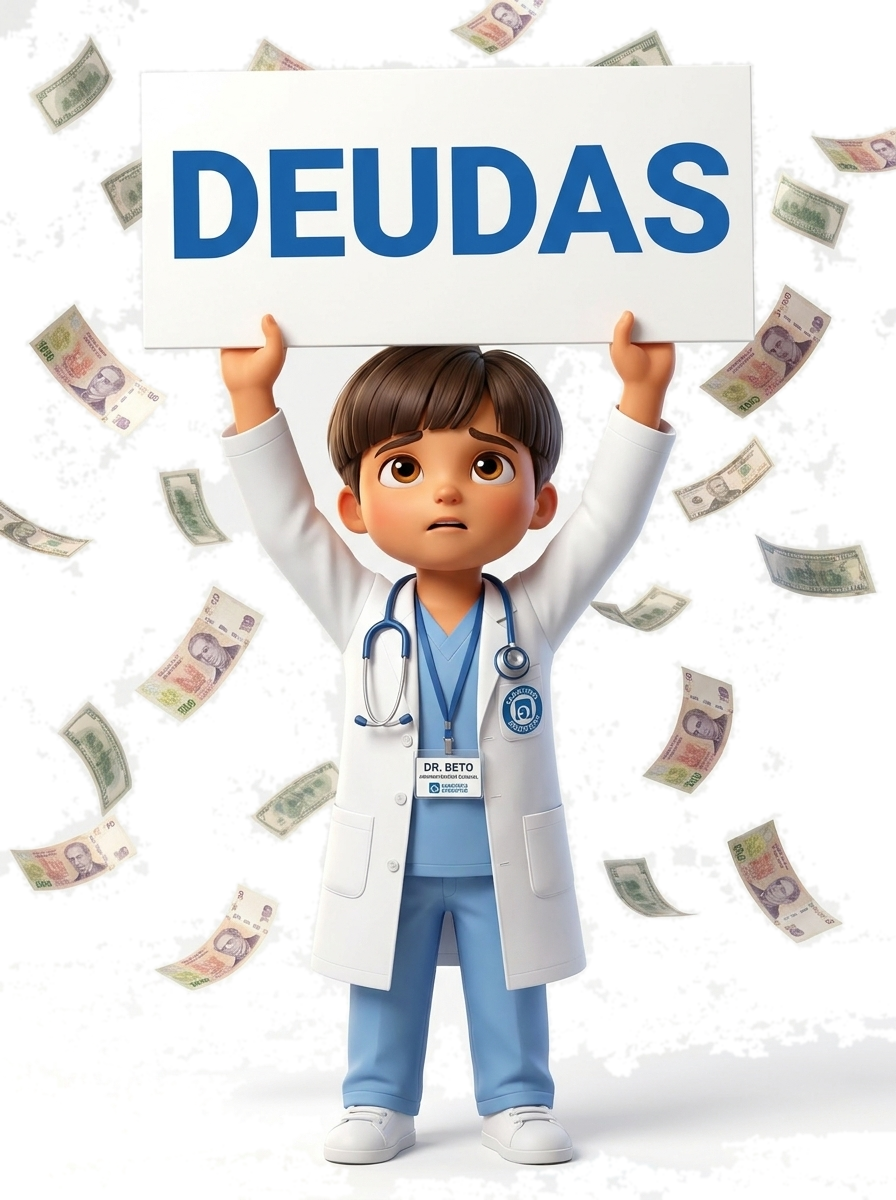
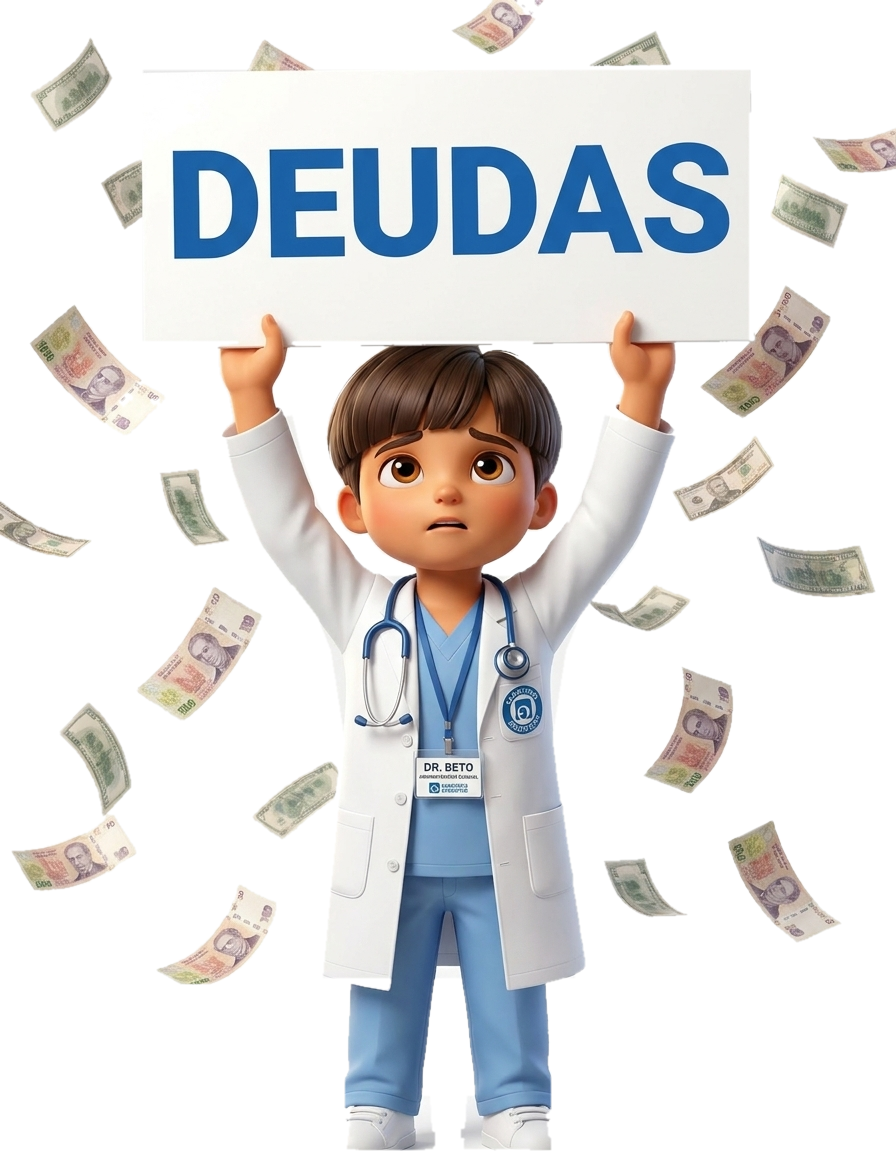
fix(deudas): remove remaining gray wall and floor background from deudas-beto.png

diff --git a/src/components/DeudasPanel.jsx b/src/components/DeudasPanel.jsx
@@ -802,7 +802,7 @@ export default function DeudasPanel({ addToast, currentUser }) {
                         userSelect: 'none',
                     }}>
                         <img
-                            src="/deudas-beto.png"
+                            src="/deudas-beto.png?v=2"
                             alt="Dr. Beto - Gestión de Deudas"
                             style={{
                                 height: '128px',
@@ -982,7 +982,7 @@ export default function DeudasPanel({ addToast, currentUser }) {
                         userSelect: 'none',
                     }}>
                         <img
-                            src="/deudas-beto.png"
+                            src="/deudas-beto.png?v=2"
                             alt="Dr. Beto - Gestión de Deudas"
                             style={{
                                 height: '132px',
